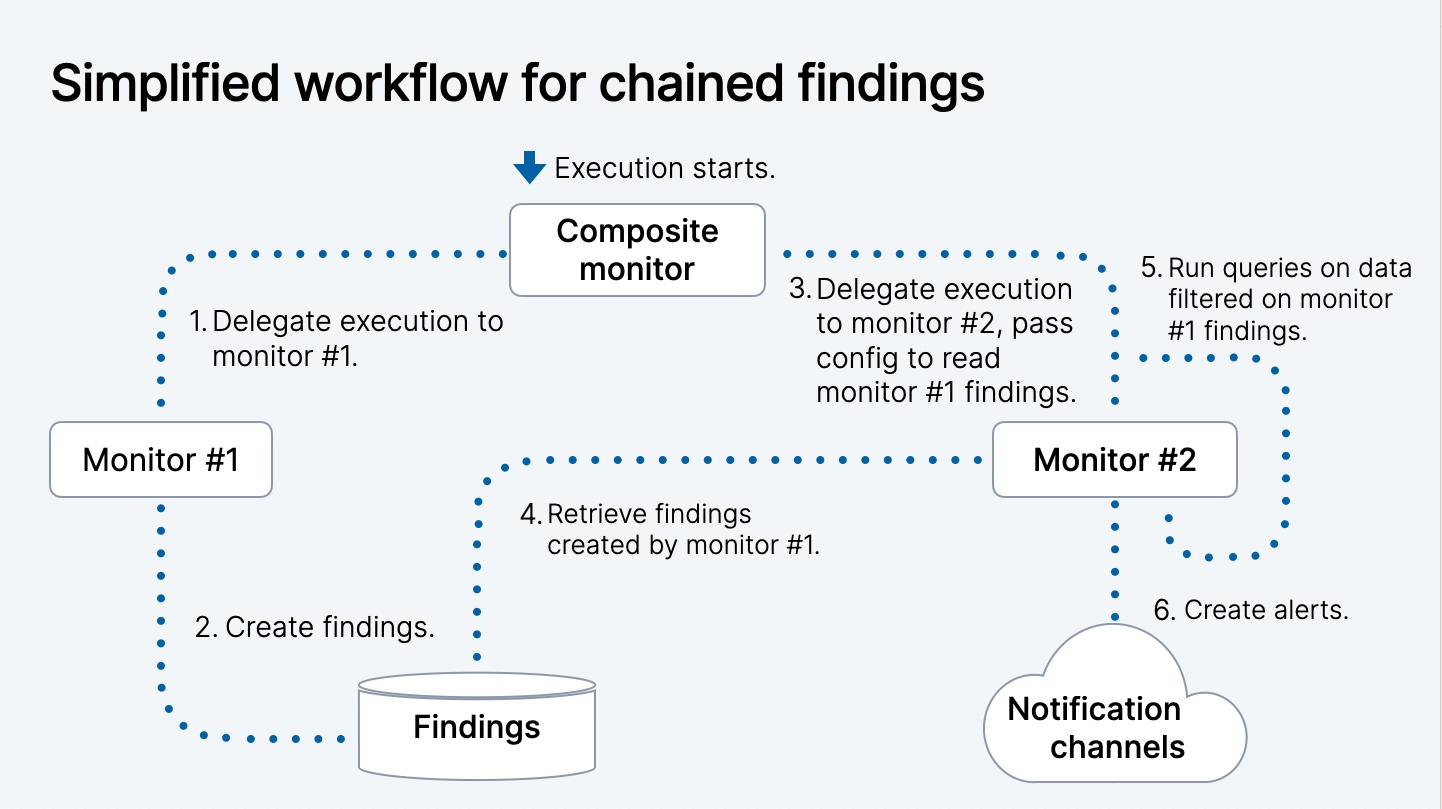
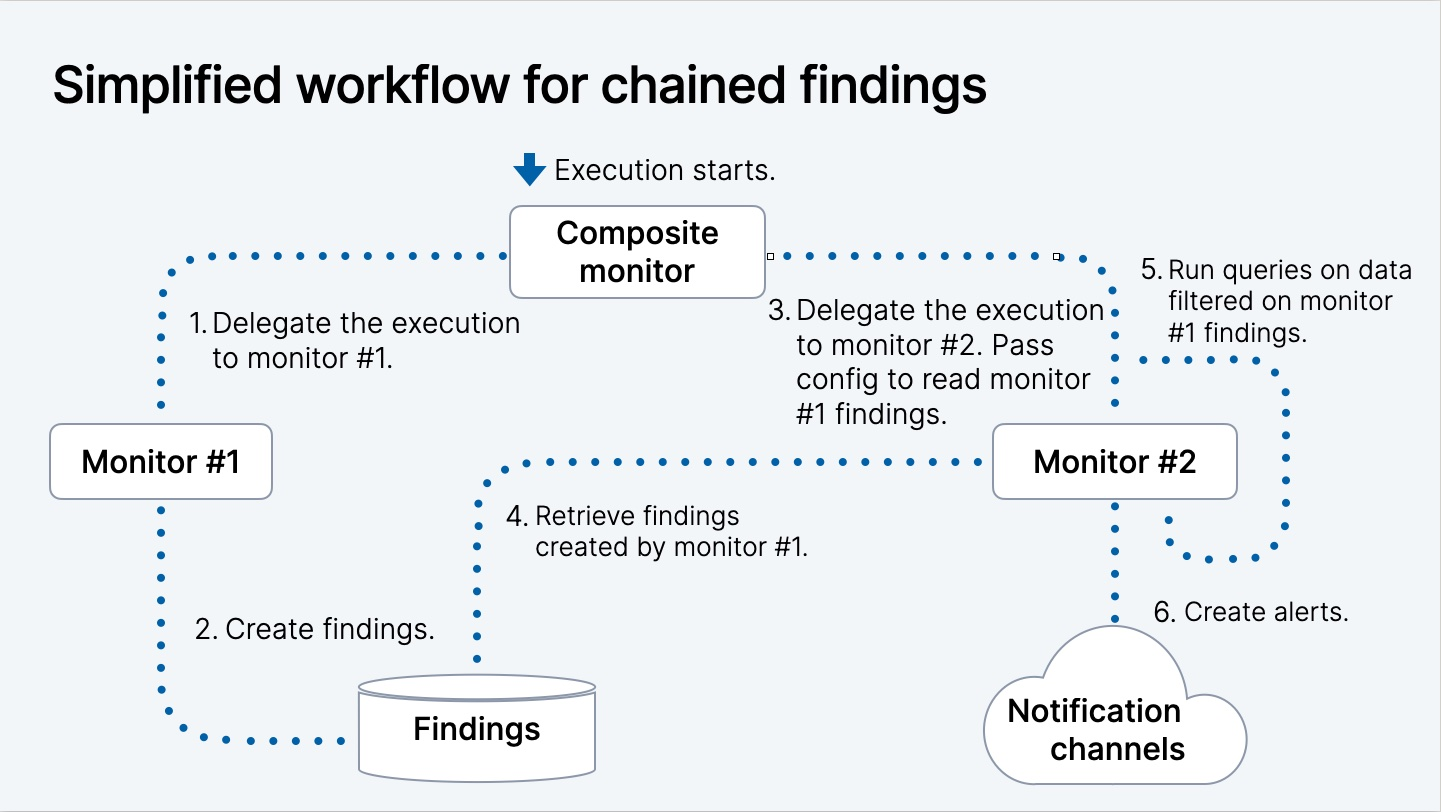
fix#4056 composite monitors

diff --git a/_includes/gif-pause2.html b/_includes/gif-pause2.html
@@ -1,0 +1,13 @@
+<head>
+    <link rel="stylesheet" type="text/css" href="{{ "/assets/css/gif.css" | relative_url }}">
+</head>
+<div class="object-and-details">
+    <img src="{{site.url}}{{site.baseurl}}/images/alerting/chained-alerts.gif" alt="Animated: workflow for chained alerts" width="90%">
+    <details>
+      <!-- added role=button to summary to resolve iOS funkiness -->
+      <summary role="button" aria-label="static image"></summary>
+     <div class="object-and-details1">
+        <img src="{{site.url}}{{site.baseurl}}/images/alerting/chained-alerts.jpg" alt="Static: workflow for chained alerts" width="90%">
+      </div>
+    </details>
+  </div>

diff --git a/_observing-your-data/alerting/comp-monitors.md b/_observing-your-data/alerting/comp-monitors.md
@@ -43,27 +43,38 @@ The key terms in the following table describe the basic concepts behind composit
 
 ## Example workflows
 
-In a composite monitor, the outputs from the individual delegate monitors can be chained together to produce more focused results and more valuable analysis of the data source. These outputs include both findings and alerts. The following sections describe the workflow for each and provide an example of how they work.
+In a composite monitor, the chained outputs from the individual delegate monitors can be either findings or alerts. The following sections describe the workflow for each and provide an example of how they work.
 
 ### Chained findings
 
 As an example of chained findings, consider a composite monitor configured with two delegate monitors. The second monitor is defined to use findings from the first as its input.
 
-* The first, delegate monitor (monitor #1) is a per document monitor configured to analyze a data source with the following three queries:
+* The first delegate monitor (monitor #1) is a per document monitor configured to analyze a data source with the following three queries:
    1. Request payload size greater than 100 Kb.
    2. Response status = 200.
    3. Response contains a specific header.
    For every execution, the monitor queries the data source and generates findings for documents that match the conditions set out by the queries. These results by themselves are valuable. However, by adding a second monitor the sequence can apply further analysis to events in the data source.
 * The second monitor (monitor #2) is a per bucket monitor that aggregates data by client IP, checks how many IPs there are, and determines how many IPs are sending these types of requests. The composite monitor configuration provides a way to add the second monitor in sequence so that it executes following the first.
-* Monitor #2 first filters the findings from Monitor #1 and then queries the data derived from Monitor #1. Matches with this second set of queries then generate triggers and alerts for notifications.
+* Monitor #2 first filters the findings from Monitor #1 and then queries the data derived from monitor #1. Matches with this second set of queries then generate triggers and alerts for notifications.
 * Both monitors #1 and #2 return trigger results to the composite monitor according to their sequence in the configuration. The composite monitor returns a list of trigger results from monitors #1 and #2.
 
-The following image shows a simplified workflow for this compound monitor.
+The following image shows a simplified workflow for a compound monitor with chained findings.
 
 {% include gif-pause.html %}
 
 ### Chained alerts
 
+As an example of chained alerts, consider a composite monitor configured with three delegate monitors. The first and second monitors (monitors #1 and #2) are configured to generate alerts when two specific events happen across the cluster. A third monitor (monitor #3) is configured to send an alert when both monitors #1 and #2 generate their own alerts.
 
+*  The first delegate monitor (monitor #1) is configured to monitor CPU utilization of a service’s worker nodes. The monitor includes trigger conditions that create alerts when the CPU experiences loads above a set threshold.
+* The second monitor (monitor #2) is configured to monitor incoming request counts during the same time window. The monitor includes trigger conditions that create alerts when the number of requests rises above a set threshold.
+* A third monitor (monitor #3) is configured to check whether monitors #1 and #2 have created alerts. If both monitors #1 and #2 have created alerts, monitor #3 creates its own alert and sends a notification that the service is experiencing a high volume of traffic and its performance is degraded.
+* The first monitor's configuration may allow for alerts due to a number of reasons, such as cluster instability or several background processes running simultaneously. So an alert for this condition alone has limited value. Similarly, monitor #2 may identify a large number of requests and send an alert, even if the cluster is able to handle the traffic. Monitor #3 filters for these two conditions and triggers an alert when they both exist. This narrows the criteria for sending notifications, which also improves the meaningfulness of the alert while removing extraneous alerts that provide no deterministic value.
 
+The following image shows a simplified workflow for a compound monitor with chained alerts.
 
+{% include gif-pause2.html %}
+
+## Configuring composite monitors
+
+You can configure composite monitors using the REST API. At this stage, the API offers the most versatility for setting up composite monitors. This covers monitors for chaining both findings and alerts. OpenSearch Dashboards is also available for creating composite monitors that chain alerts.
